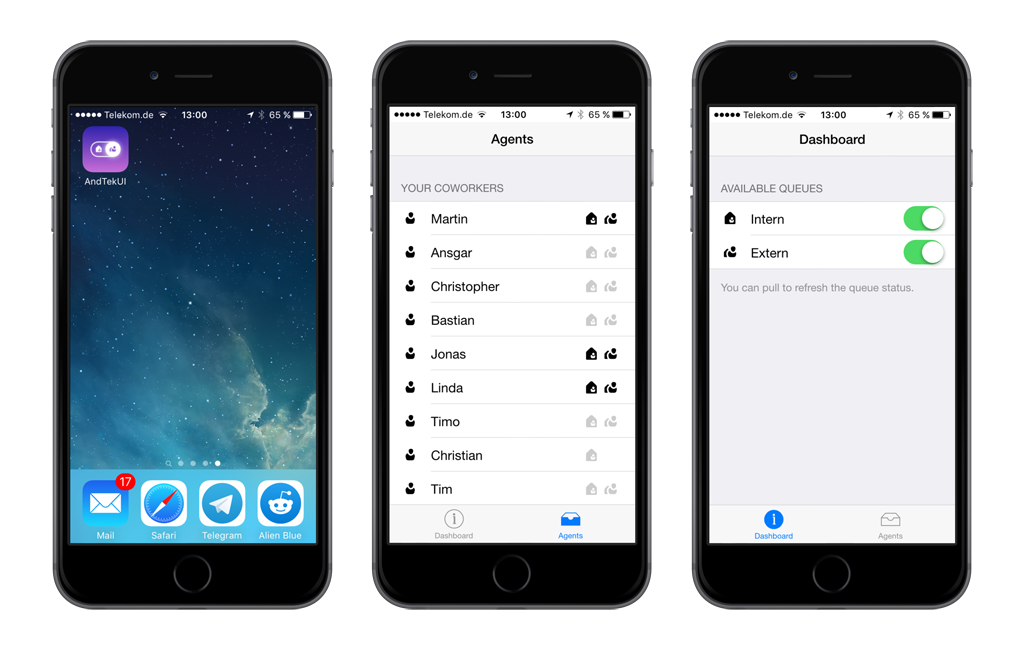
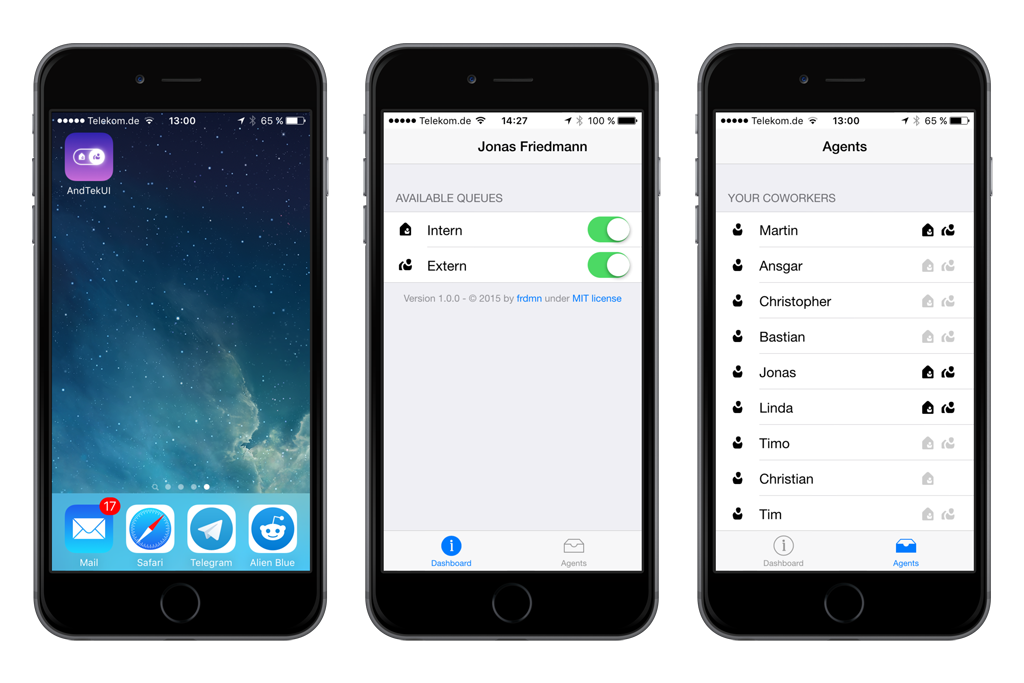
Update screenshots

diff --git a/README.md b/README.md
@@ -1,6 +1,6 @@
 # AndTekUI (WIP)
 
-![](http://up.frd.mn/MR4cD.jpg)
+![](http://up.frd.mn/YbxY9.jpg)
 
 Simple iOS (web app) dashboard for your AndTek call center.
 
